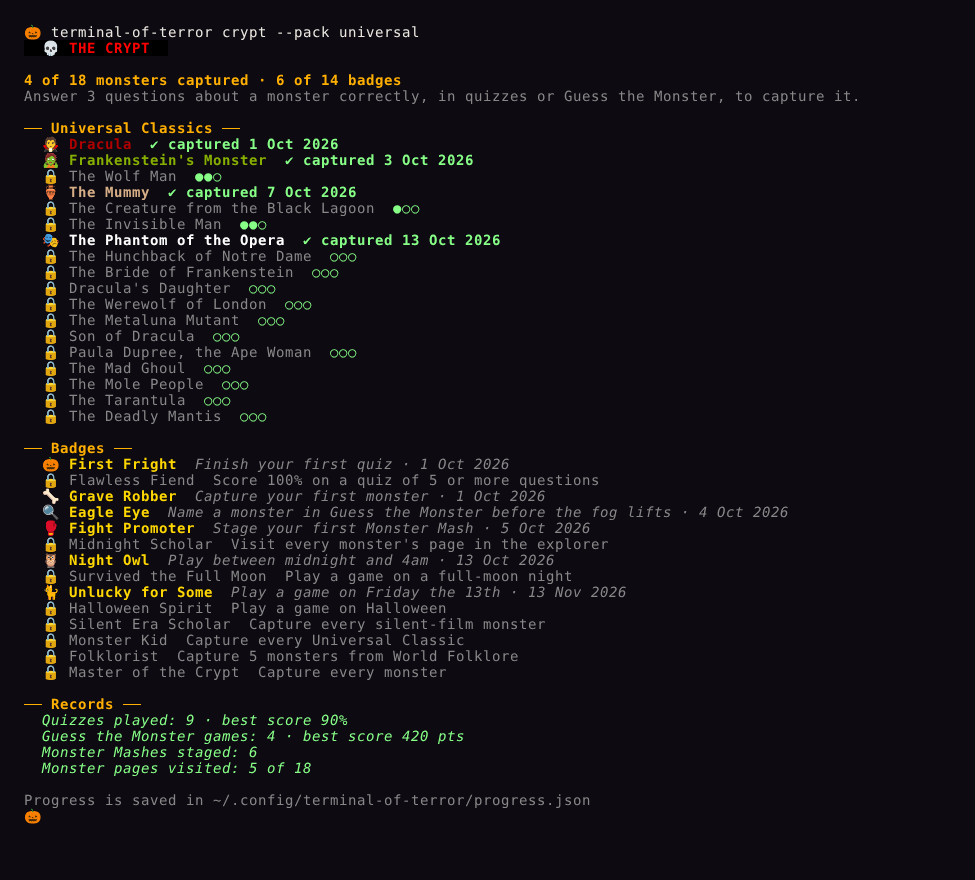
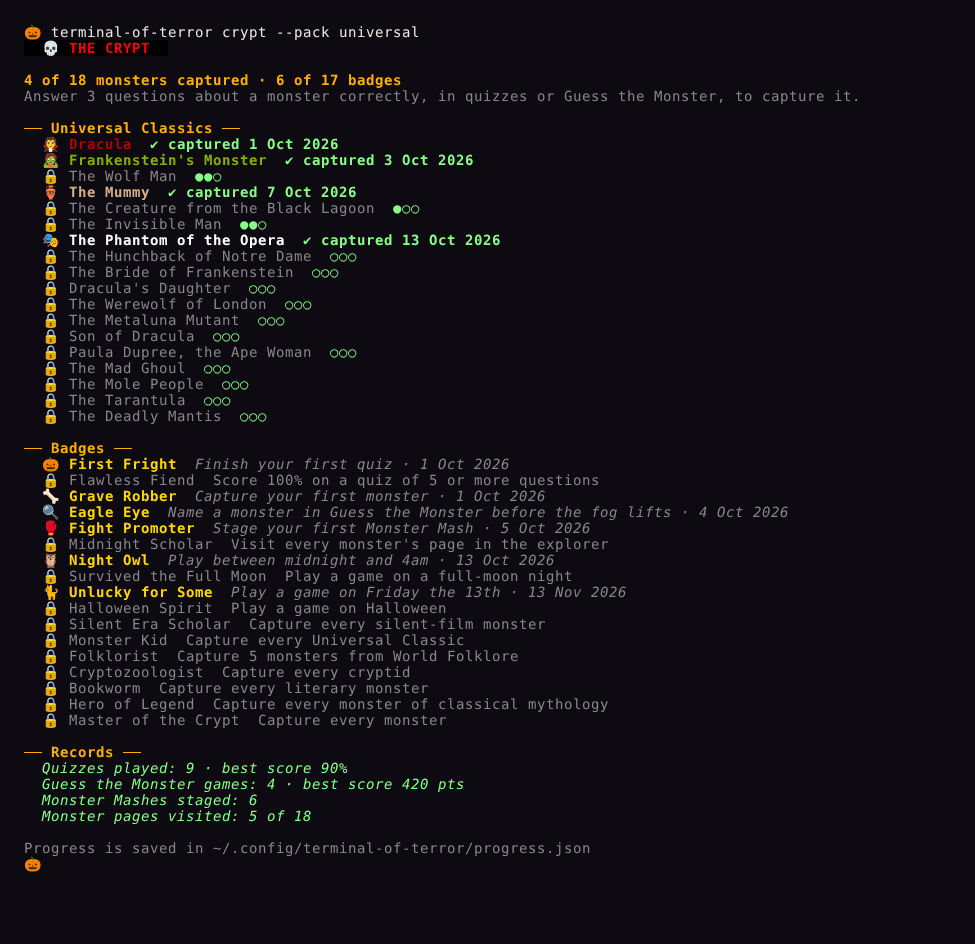
feat: pack badges, and myth claims that name their subject
Three new badges: Cryptozoologist, Bookworm and Hero of Legend, for
capturing every monster in the Cryptids, Literary and Classical
Mythology packs, awarded from a small pack-to-badge table. The README
badge table and the crypt screenshot show all 17.

Twenty-eight myth claims in the older packs said "the film", "her" or
"it"; the quiz shows a claim with no monster named, so each now names
its subject, with every verdict unchanged.

Claude-Session: https://claude.ai/code/session_012JtbXb8ej9wYY4xGBzaTku

diff --git a/internal/crypt/crypt.go b/internal/crypt/crypt.go
@@ -36,7 +36,17 @@ var Badges = []Badge{
 	{"silent-scholar", "🎬", "Silent Era Scholar", "Capture every silent-film monster"},
 	{"monster-kid", "📺", "Monster Kid", "Capture every Universal Classic"},
 	{"folklorist", "🌍", "Folklorist", "Capture 5 monsters from World Folklore"},
+	{"cryptozoologist", "🔭", "Cryptozoologist", "Capture every cryptid"},
+	{"bookworm", "📖", "Bookworm", "Capture every literary monster"},
+	{"hero-of-legend", "🏹", "Hero of Legend", "Capture every monster of classical mythology"},
 	{"master", "👑", "Master of the Crypt", "Capture every monster"},
+}
+
+// packBadges are awarded for capturing every monster in a pack.
+var packBadges = map[string]string{
+	"cryptids":  "cryptozoologist",
+	"literary":  "bookworm",
+	"mythology": "hero-of-legend",
 }
 
 // Outcome describes one session of play.
@@ -149,6 +159,11 @@ func Apply(p *store.Progress, all []monsters.Monster, o Outcome) Unlocks {
 	}
 	if folk >= 5 {
 		award("folklorist")
+	}
+	for pack, badge := range packBadges {
+		if allWhere(all, func(m monsters.Monster) bool { return m.Pack == pack }, captured) {
+			award(badge)
+		}
 	}
 	if every(all, captured) {
 		award("master")

diff --git a/internal/crypt/crypt_test.go b/internal/crypt/crypt_test.go
@@ -60,7 +60,7 @@ func TestBadgeRules(t *testing.T) {
 		seen = append(seen, m.ID)
 	}
 	u := Apply(p, all, Outcome{Kind: "explore", Seen: seen, Correct: correct, Now: evening})
-	for _, id := range []string{"scholar", "silent-scholar", "monster-kid", "folklorist", "master"} {
+	for _, id := range []string{"scholar", "silent-scholar", "monster-kid", "folklorist", "cryptozoologist", "bookworm", "hero-of-legend", "master"} {
 		if !hasBadge(u, id) {
 			t.Errorf("expected badge %s", id)
 		}

diff --git a/README.md b/README.md
@@ -205,7 +205,7 @@ terminal-of-terror crypt reset   # release them all and start again
 <img src="docs/assets/crypt.png" alt="The Crypt: captured monsters, progress towards the rest, badges and records" width="720">
 
 <details>
-<summary><b>🏅 All 14 badges</b></summary>
+<summary><b>🏅 All 17 badges</b></summary>
 
 | Badge | How to earn it |
 |-------|----------------|
@@ -222,6 +222,9 @@ terminal-of-terror crypt reset   # release them all and start again
 | 🎬 Silent Era Scholar | Capture every silent-film monster |
 | 📺 Monster Kid | Capture every Universal Classic |
 | 🌍 Folklorist | Capture 5 monsters from World Folklore |
+| 🔭 Cryptozoologist | Capture every cryptid |
+| 📖 Bookworm | Capture every literary monster |
+| 🏹 Hero of Legend | Capture every monster of classical mythology |
 | 👑 Master of the Crypt | Capture every monster |
 
 </details>
